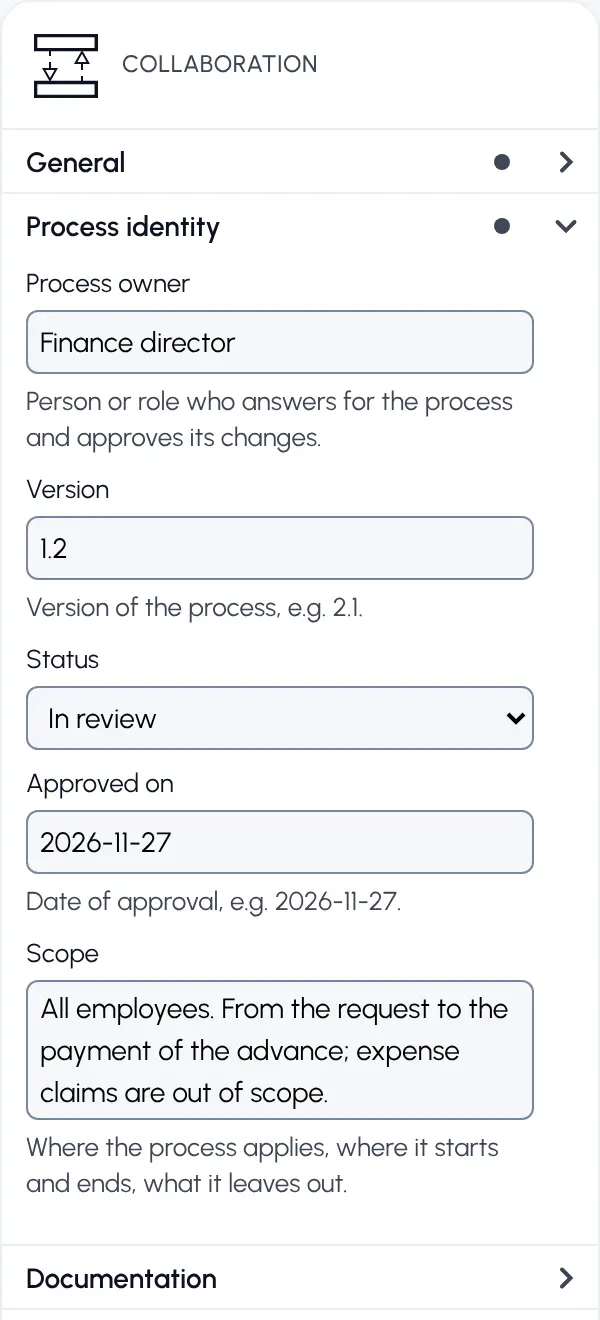
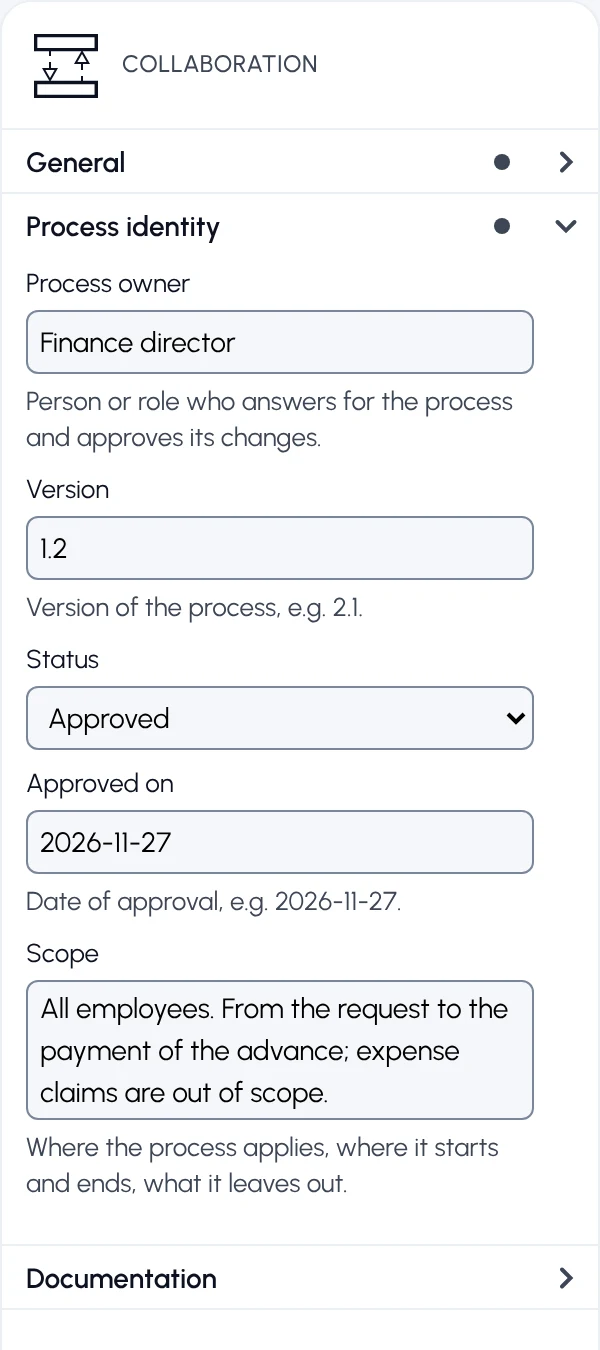
Help: new expert sections in the reorganized help, modules listed, screenshots retaken

diff --git a/aide.html b/aide.html
@@ -292,7 +292,7 @@
         <h2>Ouvrir, importer, exporter</h2>
         <h3><span class="ico" data-icon="open" aria-hidden="true"></span>Ouvrir</h3>
         <ul>
-          <li><span class="uib"><span class="ico" data-icon="open" aria-hidden="true"></span>Ouvrir</span>, puis <span class="uib"><span class="ico" data-icon="open" aria-hidden="true"></span>Fichier .bpmn ou .xml…</span>, ouvre un fichier de votre disque.</li>
+          <li><span class="uib"><span class="ico" data-icon="open" aria-hidden="true"></span>Ouvrir</span>, puis <span class="uib"><span class="ico" data-icon="open" aria-hidden="true"></span>Fichier .bpmn, .xml ou chiffré…</span>, ouvre un fichier de votre disque.</li>
           <li><span class="uib"><span class="ico" data-icon="code" aria-hidden="true"></span>Coller du XML…</span> ouvre un diagramme copié sous forme de code, par exemple depuis un autre outil ou une réponse d'IA.</li>
           <li><span class="uib"><span class="ico" data-icon="table" aria-hidden="true"></span>Depuis un tableau…</span> construit un processus à partir d'un tableau d'étapes, sans IA (voir ci-dessous).</li>
           <li><span class="uib"><span class="ico" data-icon="grid" aria-hidden="true"></span>Grille rôles × tâches…</span> construit un processus en atelier, une tâche par ligne et un rôle par colonne (voir ci-dessous).</li>
@@ -480,7 +480,7 @@
         <p>Ces champs nourrissent les fiches de procédure, le rapport de processus (matrice RACI) et l'export <span class="uib"><span class="ico" data-icon="table" aria-hidden="true"></span>Matrice RACI (Excel)</span>, où le R vient de Assigné à, ou à défaut du couloir. Le co-pilote IA et les agents MCP les lisent et les remplissent aussi.</p>
         <p>Sur un flux qui sort d'une passerelle exclusive ou inclusive, le champ <span class="ui">Condition</span> reçoit la règle en clair, par exemple « Montant &lt; 3000 ». Elle est rangée dans l'élément standard <code>conditionExpression</code>, que les autres outils lisent, et l'<a href="#export-camunda">export pour Camunda</a> la traduit dans le langage du moteur. Tant que le flux n'a pas d'autre libellé, la condition s'affiche sur le diagramme. Le flux par défaut n'a pas de condition.</p>
         <div class="fig-pair">
-          <figure><p class="fig-title">Une activité</p><img src="/src/help/img/fr-panneau-raci.webp" width="300" height="1145" alt="Panneau Processus de la tâche Vérifier la demande : Assigné à Chef d'équipe, Systèmes utilisés ERP, groupe Responsabilités (RACI) avec Approbateur Directeur de service et Consultés RH, puis le groupe Adoption de l'IA du mode Expert, Potentiel d'IA Assistée par IA." loading="lazy" /><figcaption>Assigné à, Systèmes utilisés, RACI et, en mode Expert, l'adoption de l'IA.</figcaption></figure>
+          <figure><p class="fig-title">Une activité</p><img src="/src/help/img/fr-panneau-raci.webp" width="300" height="1181" alt="Panneau Processus de la tâche Vérifier la demande : Assigné à Chef d'équipe, Systèmes utilisés ERP, groupe Responsabilités (RACI) avec Approbateur Directeur de service et Consultés RH, puis les groupes du mode Expert : Adoption de l'IA, Potentiel d'IA Assistée par IA, et Risques et conformité replié." loading="lazy" /><figcaption>Assigné à, Systèmes utilisés, RACI et, en mode Expert, l'adoption de l'IA.</figcaption></figure>
           <figure><p class="fig-title">Un flux de décision</p><img src="/src/help/img/fr-condition-flux.webp" width="300" height="530" alt="Panneau Processus du flux Oui sortant de la décision : le champ Condition contient Montant &lt; 3000." loading="lazy" /><figcaption>La condition en clair d'une branche.</figcaption></figure>
         </div>
         <p>Tout ce que vous saisissez dans le panneau est enregistré dans le fichier .bpmn et suit les exports XML.</p>
@@ -763,7 +763,7 @@ Pour finir : vérifie le diagramme, corrige ce qui échoue et résume le process
         <figure><img src="/src/help/img/fr-menu-expert.webp" width="586" height="186" alt="Le bouton Expert en bleu et son menu ouvert : Arrêter la simulation, Rapport de processus en PDF ou en Markdown." loading="lazy" /><figcaption>Le menu Expert, mode actif et simulation en cours.</figcaption></figure>
         <h3 id="modules"><span class="ico" data-icon="modules" aria-hidden="true"></span>Choisir les modules</h3>
         <p><span class="uib"><span class="ico" data-icon="modules" aria-hidden="true"></span>Choisir les modules…</span>, en bas du menu, ouvre une fenêtre avec un interrupteur par fonction : <span class="ui">Simulation de jetons</span>, <span class="ui">Carte de chaleur</span>, <span class="ui">Rapport de processus</span>, <span class="ui">Potentiel d'IA</span>, <span class="ui">Risques et conformité</span>, <span class="ui">Export pour Camunda</span> et <span class="ui">Tables de décision (DMN)</span>. N'allumez que ce dont vous vous servez : le menu Expert et le panneau Processus ne montrent que les commandes des modules allumés. La carte de chaleur demande la simulation. Par défaut, la simulation, la carte de chaleur, le rapport, le potentiel d'IA et les risques sont allumés, l'export pour Camunda et les tables de décision éteints. Le navigateur retient vos choix.</p>
-        <figure><img src="/src/help/img/fr-modules-experts.webp" width="1040" height="1128" alt="La fenêtre Modules experts : Simulation de jetons, Carte de chaleur, Rapport de processus et Tables de décision (DMN), chacun avec son interrupteur, sa ligne d'explication et son lien vers l'aide." loading="lazy" /><figcaption>La fenêtre Modules experts : ici, les tables de décision sont éteintes.</figcaption></figure>
+        <figure><img src="/src/help/img/fr-modules-experts.webp" width="1040" height="1716" alt="La fenêtre Modules experts : Simulation de jetons, Carte de chaleur, Rapport de processus, Potentiel d'IA, Risques et conformité, Export pour Camunda et Tables de décision (DMN), chacun avec son interrupteur, sa ligne d'explication et son lien vers l'aide." loading="lazy" /><figcaption>La fenêtre Modules experts : ici, l'export pour Camunda et les tables de décision sont éteints.</figcaption></figure>
         <p>Éteindre un module ne touche pas au diagramme : les probabilités, les décisions, le potentiel d'IA, les risques et la fiche d'identité déjà saisis restent dans le fichier. Le module <span class="ui">Tables de décision (DMN)</span>, une fois allumé, ajoute les pastilles des tâches de règle métier, le groupe <span class="ui">Décision (DMN)</span> du panneau Processus et l'entrée <span class="uib"><span class="ico" data-icon="table" aria-hidden="true"></span>Décisions du diagramme…</span> : voir <a href="#decisions-dmn">Tables de décision (DMN)</a>. Les agents IA, par le co-pilote ou par MCP, gardent tous leurs outils, quels que soient les modules allumés.</p>
       </section>
 
@@ -838,10 +838,10 @@ Pour finir : vérifie le diagramme, corrige ce qui échoue et résume le process
           <li><span class="ui">Exigences</span> : les références réglementaires ou normatives que l'étape doit respecter, séparées par des points-virgules (RGPD art. 30 ; ISO 9001 §8.5 ; AI Act art. 14).</li>
         </ul>
         <p>Le rapport de processus en tire deux tableaux. <strong>Risques et contrôles</strong> liste chaque activité concernée, et marque en jaune celle qui a des risques sans contrôle. Elle apparaît aussi dans les constats, au niveau À compléter. <strong>Matrice de conformité</strong> donne, pour chaque exigence citée, les activités qui la portent. Les fiches de procédure montrent les risques, contrôles et exigences de chaque activité. Le Co-pilote les remplit avec <span class="uib"><span class="ico" data-icon="assistant" aria-hidden="true"></span>Potentiel d'IA par activité</span>, ou sur demande (« note les risques et contrôles de chaque activité »).</p>
-        <figure><img src="/src/help/img/fr-risques-conformite.webp" width="300" height="730" alt="Panneau Processus de la tâche Vérifier la demande en mode Expert : groupe Risques et conformité avec le risque Justificatif falsifié, deux contrôles et l'exigence ISO 9001 §8.5." loading="lazy" /><figcaption>Le groupe Risques et conformité d'une activité.</figcaption></figure>
+        <figure><img src="/src/help/img/fr-risques-conformite.webp" width="300" height="742" alt="Panneau Processus de la tâche Vérifier la demande en mode Expert : groupe Risques et conformité avec le risque Justificatif falsifié, deux contrôles et l'exigence ISO 9001 §8.5." loading="lazy" /><figcaption>Le groupe Risques et conformité d'une activité.</figcaption></figure>
         <h3 id="fiche-identite">Fiche d'identité du processus</h3>
         <p>Qui répond du processus, et dans quelle version le lit-on ? En mode Expert, quand rien n'est sélectionné, le panneau Processus montre le groupe <span class="ui">Fiche d'identité du processus</span> : <span class="ui">Propriétaire du processus</span>, <span class="ui">Version</span>, <span class="ui">Statut</span> (Brouillon, En relecture, Validé, Obsolète), <span class="ui">Validé le</span> et <span class="ui">Périmètre</span>. La fiche ouvre le rapport de processus et les fiches de procédure, en PDF, Markdown et Word. Le Co-pilote et les agents MCP peuvent la remplir à partir de vos documents.</p>
-        <figure><img src="/src/help/img/fr-fiche-identite.webp" width="300" height="660" alt="Panneau Processus de la collaboration en mode Expert : groupe Fiche d'identité du processus avec le propriétaire Directeur financier, la version 1.2, le statut En relecture, la date de validation et le périmètre." loading="lazy" /><figcaption>La fiche d'identité, sur le diagramme sans sélection.</figcaption></figure>
+        <figure><img src="/src/help/img/fr-fiche-identite.webp" width="300" height="675" alt="Panneau Processus de la collaboration en mode Expert : groupe Fiche d'identité du processus avec le propriétaire Directeur financier, la version 1.2, le statut Validé, la date de validation et le périmètre." loading="lazy" /><figcaption>La fiche d'identité, sur le diagramme sans sélection.</figcaption></figure>
         <p>Cette fonction demande le module <span class="ui">Risques et conformité</span>, à allumer dans <span class="uib"><span class="ico" data-icon="expert" aria-hidden="true"></span>Expert</span> puis <a href="#modules">Choisir les modules…</a>.</p>
       </section>
 

diff --git a/help.html b/help.html
@@ -292,7 +292,7 @@
         <h2>Open, import, export</h2>
         <h3><span class="ico" data-icon="open" aria-hidden="true"></span>Open</h3>
         <ul>
-          <li><span class="uib"><span class="ico" data-icon="open" aria-hidden="true"></span>Open</span>, then <span class="uib"><span class="ico" data-icon="open" aria-hidden="true"></span>.bpmn or .xml file…</span>, opens a file from your disk.</li>
+          <li><span class="uib"><span class="ico" data-icon="open" aria-hidden="true"></span>Open</span>, then <span class="uib"><span class="ico" data-icon="open" aria-hidden="true"></span>.bpmn, .xml or encrypted file…</span>, opens a file from your disk.</li>
           <li><span class="uib"><span class="ico" data-icon="code" aria-hidden="true"></span>Paste XML…</span> opens a diagram copied as code, for example from another tool or an AI answer.</li>
           <li><span class="uib"><span class="ico" data-icon="table" aria-hidden="true"></span>From a table…</span> builds a process from a table of steps, without AI (see below).</li>
           <li><span class="uib"><span class="ico" data-icon="grid" aria-hidden="true"></span>Roles × tasks grid…</span> builds a process in a workshop, one task per row and one role per column (see below).</li>
@@ -480,7 +480,7 @@
         <p>These fields feed the procedure sheets, the process report (RACI matrix) and the <span class="uib"><span class="ico" data-icon="table" aria-hidden="true"></span>RACI matrix (Excel)</span> export, where R comes from Assigned to, or else from the lane. The AI co-pilot and MCP agents read and fill them too.</p>
         <p>On a flow leaving an exclusive or inclusive gateway, the <span class="ui">Condition</span> field takes the rule in plain words, for example "Amount &lt; 3000". It is stored in the standard <code>conditionExpression</code> element, which other tools read, and the <a href="#camunda-export">export for Camunda</a> translates it into the engine's language. While the flow has no other label, the condition shows on the diagram. The default flow has no condition.</p>
         <div class="fig-pair">
-          <figure><p class="fig-title">An activity</p><img src="/src/help/img/en-panneau-raci.webp" width="300" height="1145" alt="Process panel of the Check the request task: Assigned to Team lead, Systems used ERP, Responsibilities (RACI) group with Accountable Department head and Consulted HR, then the Expert mode AI adoption group, AI potential AI-assisted." loading="lazy" /><figcaption>Assigned to, Systems used, RACI and, in Expert mode, AI adoption.</figcaption></figure>
+          <figure><p class="fig-title">An activity</p><img src="/src/help/img/en-panneau-raci.webp" width="300" height="1163" alt="Process panel of the Check the request task: Assigned to Team lead, Systems used ERP, Responsibilities (RACI) group with Accountable Department head and Consulted HR, then the Expert mode groups: AI adoption, AI potential AI-assisted, and Risks and compliance collapsed." loading="lazy" /><figcaption>Assigned to, Systems used, RACI and, in Expert mode, AI adoption.</figcaption></figure>
           <figure><p class="fig-title">A decision flow</p><img src="/src/help/img/en-condition-flux.webp" width="300" height="530" alt="Process panel of the Yes flow leaving the decision: the Condition field holds Amount &lt; 3000." loading="lazy" /><figcaption>The plain-words condition of a branch.</figcaption></figure>
         </div>
         <p>Everything you enter in the panel is saved in the .bpmn file and carried over to XML exports.</p>
@@ -763,7 +763,7 @@ To finish: check the diagram, fix what fails and sum up the process in five line
         <figure><img src="/src/help/img/en-menu-expert.webp" width="600" height="186" alt="The blue Expert button and its open menu: Stop simulation, Process report as PDF or Markdown." loading="lazy" /><figcaption>The Expert menu, with the mode on and a simulation running.</figcaption></figure>
         <h3 id="modules"><span class="ico" data-icon="modules" aria-hidden="true"></span>Choose modules</h3>
         <p><span class="uib"><span class="ico" data-icon="modules" aria-hidden="true"></span>Choose modules…</span>, at the bottom of the menu, opens a window with one switch per function: <span class="ui">Token simulation</span>, <span class="ui">Heatmap</span>, <span class="ui">Process report</span>, <span class="ui">AI potential</span>, <span class="ui">Risks and compliance</span>, <span class="ui">Camunda export</span> and <span class="ui">Decision tables (DMN)</span>. Turn on only what you use: the Expert menu and the Process panel only show the commands of the modules that are on. The heatmap needs the simulation. By default, the simulation, the heatmap, the report, the AI potential and the risks are on, and the Camunda export and decision tables are off. The browser remembers your choices.</p>
-        <figure><img src="/src/help/img/en-modules-experts.webp" width="1040" height="1128" alt="The Expert modules window: Token simulation, Heatmap, Process report and Decision tables (DMN), each with its switch, a line of explanation and a link to the help." loading="lazy" /><figcaption>The Expert modules window: here, decision tables are off.</figcaption></figure>
+        <figure><img src="/src/help/img/en-modules-experts.webp" width="1040" height="1680" alt="The Expert modules window: Token simulation, Heatmap, Process report, AI potential, Risks and compliance, Camunda export and Decision tables (DMN), each with its switch, a line of explanation and a link to the help." loading="lazy" /><figcaption>The Expert modules window: here, the Camunda export and decision tables are off.</figcaption></figure>
         <p>Turning a module off leaves the diagram as it is: the probabilities, decisions, AI potential, risks and process identity already set stay in the file. The <span class="ui">Decision tables (DMN)</span> module, once on, adds the markers of business rule tasks, the <span class="ui">Decision (DMN)</span> group of the Process panel and the <span class="uib"><span class="ico" data-icon="table" aria-hidden="true"></span>Decisions of the diagram…</span> entry: see <a href="#dmn-decisions">Decision tables (DMN)</a>. AI agents, through the co-pilot or MCP, keep all their tools, whatever modules are on.</p>
       </section>
 
@@ -838,10 +838,10 @@ To finish: check the diagram, fix what fails and sum up the process in five line
           <li><span class="ui">Requirements</span>: the regulatory or standard references the step must meet, separated by semicolons (GDPR art. 30; ISO 9001 §8.5; AI Act art. 14).</li>
         </ul>
         <p>The process report draws two tables from them. <strong>Risks and controls</strong> lists each activity concerned, and marks in yellow the one with risks but no control. It also shows in the findings, at the To complete level. <strong>Compliance matrix</strong> gives, for each requirement cited, the activities that carry it. The procedure sheets show the risks, controls and requirements of each activity. The co-pilot fills them with <span class="uib"><span class="ico" data-icon="assistant" aria-hidden="true"></span>AI potential by activity</span>, or on request ("list the risks and controls of each activity").</p>
-        <figure><img src="/src/help/img/en-risques-conformite.webp" width="300" height="730" alt="Process panel of the Check the request task in Expert mode: Risks and compliance group with the risk Forged receipt, two controls and the requirement ISO 9001 §8.5." loading="lazy" /><figcaption>The Risks and compliance group of an activity.</figcaption></figure>
+        <figure><img src="/src/help/img/en-risques-conformite.webp" width="300" height="706" alt="Process panel of the Check the request task in Expert mode: Risks and compliance group with the risk Forged receipt, two controls and the requirement ISO 9001 §8.5." loading="lazy" /><figcaption>The Risks and compliance group of an activity.</figcaption></figure>
         <h3 id="process-identity">Process identity</h3>
         <p>Who answers for the process, and which version is this? In Expert mode, when nothing is selected, the Process panel shows the <span class="ui">Process identity</span> group: <span class="ui">Process owner</span>, <span class="ui">Version</span>, <span class="ui">Status</span> (Draft, In review, Approved, Retired), <span class="ui">Approved on</span> and <span class="ui">Scope</span>. The identity opens the process report and the procedure sheets, in PDF, Markdown and Word. The co-pilot and MCP agents can fill it from your documents.</p>
-        <figure><img src="/src/help/img/en-fiche-identite.webp" width="300" height="660" alt="Process panel of the collaboration in Expert mode: Process identity group with the owner Finance director, version 1.2, status In review, the approval date and the scope." loading="lazy" /><figcaption>The process identity, on the diagram with no selection.</figcaption></figure>
+        <figure><img src="/src/help/img/en-fiche-identite.webp" width="300" height="675" alt="Process panel of the collaboration in Expert mode: Process identity group with the owner Finance director, version 1.2, status Approved, the approval date and the scope." loading="lazy" /><figcaption>The process identity, on the diagram with no selection.</figcaption></figure>
         <p>This function needs the <span class="ui">Risks and compliance</span> module, to turn on in <span class="uib"><span class="ico" data-icon="expert" aria-hidden="true"></span>Expert</span> then <a href="#modules">Choose modules…</a>.</p>
       </section>
 

diff --git a/src/expert-modules.js b/src/expert-modules.js
@@ -32,7 +32,7 @@ const modules = [
   {
     id: 'report', icon: 'pdf', default: true, help: ['rapport-processus', 'process-report'],
     name: () => T('Process report', 'Rapport de processus'),
-    detail: () => T('Findings, improvement areas and element sequence, as a PDF or Markdown.', 'Constats, axes d\'amélioration et séquence des éléments, en PDF ou en Markdown.'),
+    detail: () => T('Findings, improvement areas and element sequence, as a PDF, Markdown or Word file.', 'Constats, axes d\'amélioration et séquence des éléments, en PDF, Markdown ou Word.'),
   },
   {
     id: 'ai-potential', icon: 'assistant', default: true, help: ['potentiel-ia', 'ai-potential'],
